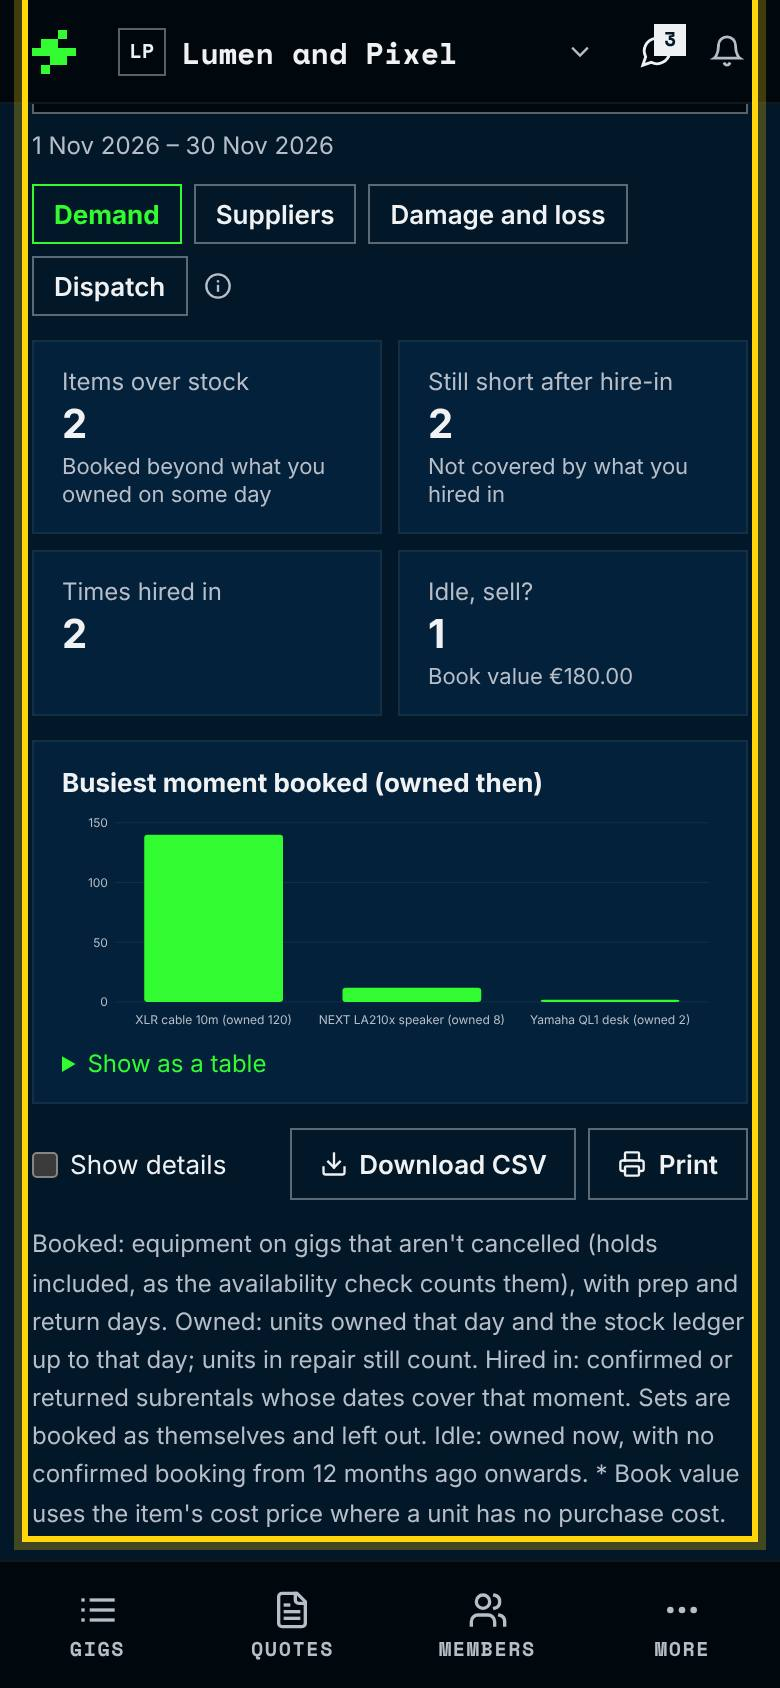
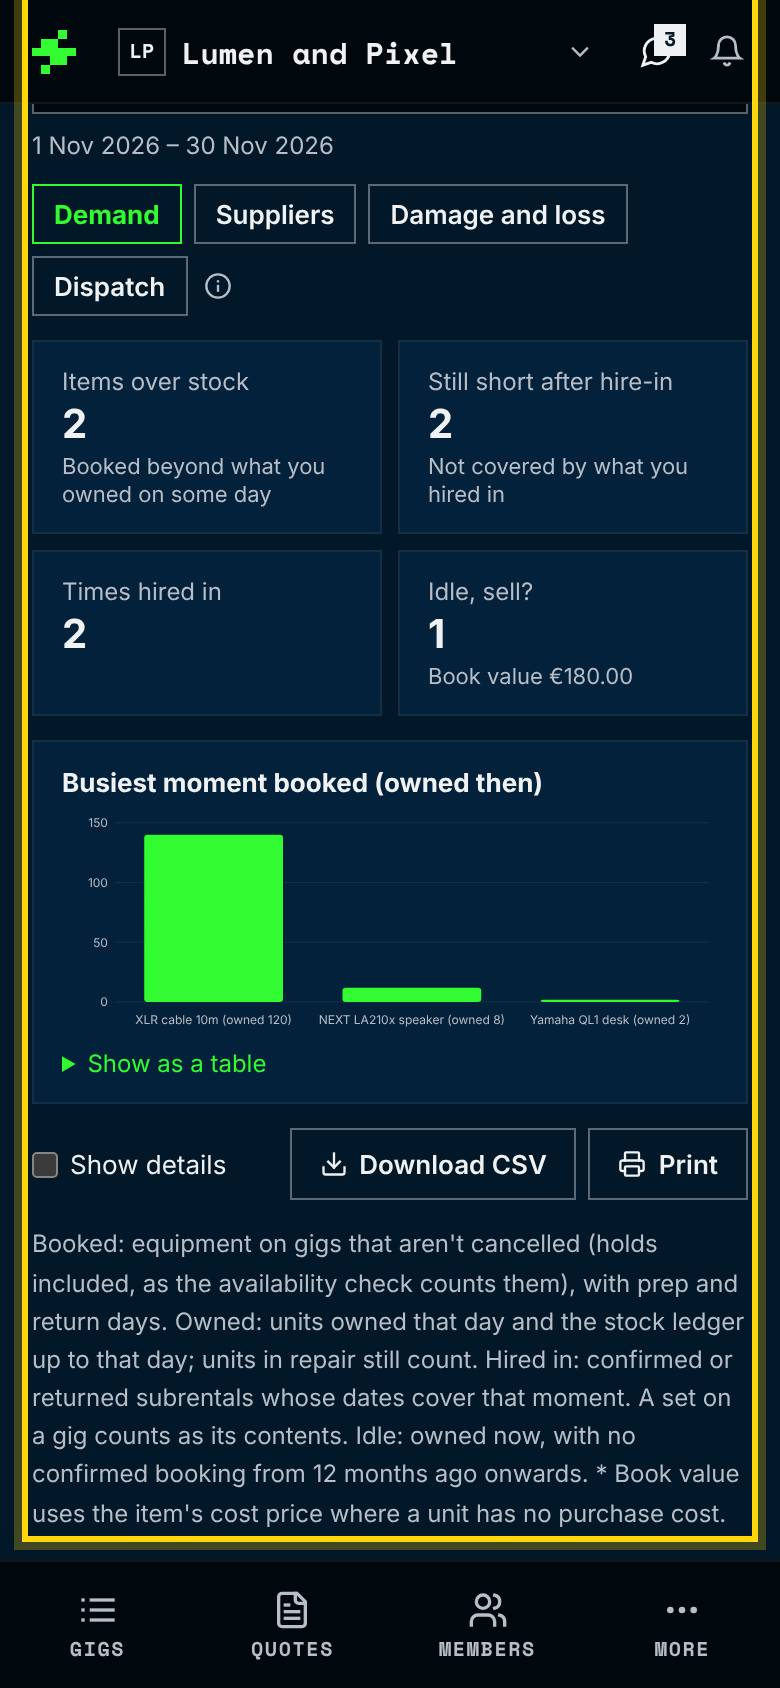
Warehouse numbers: How K6 works, notes for the release, e2e views (K6) (WIP)
Claude-Session: https://claude.ai/code/session_01TrujDLf8WfAYCA7UmgyYhG

Changed region(s): [[0.0308, 0.8009, 0.9231, 0.8626]]

diff --git a/src/i18n/pt.js b/src/i18n/pt.js
@@ -4502,7 +4502,7 @@ export default {
   "wh.col.bookValue": "Valor contabilístico",
   "wh.col.sell": "Vender?",
   "wh.sell": "Parado 12 meses",
-  "wh.howDemand": "Marcado: equipamento em eventos que não estão cancelados (pré-reservas incluídas, como na verificação de disponibilidade), com os dias de preparação e devolução. Tinha: unidades que tinha nesse dia e o registo de stock até esse dia; as unidades em reparação contam. Alugado: alugueres a terceiros confirmados ou devolvidos cujas datas cobrem esse momento. Os conjuntos são marcados como tal e ficam de fora. Parado: tem agora e não tem marcações confirmadas desde há 12 meses. * O valor contabilístico usa o preço de custo do artigo quando uma unidade não tem custo de compra.",
+  "wh.howDemand": "Marcado: equipamento em eventos que não estão cancelados (pré-reservas incluídas, como na verificação de disponibilidade), com os dias de preparação e devolução. Tinha: unidades que tinha nesse dia e o registo de stock até esse dia; as unidades em reparação contam. Alugado: alugueres a terceiros confirmados ou devolvidos cujas datas cobrem esse momento. Um conjunto num evento conta como o seu conteúdo. Parado: tem agora e não tem marcações confirmadas desde há 12 meses. * O valor contabilístico usa o preço de custo do artigo quando uma unidade não tem custo de compra.",
   "wh.csvName.demand": "armazem procura",
   "wh.csvName.suppliers": "armazem fornecedores",
   "wh.csvName.damage": "armazem danos",
@@ -4543,7 +4543,7 @@ export default {
   "wh.lossOnGigs.one": "{count} unidade perdida num evento",
   "wh.lossOnGigs.other": "{count} unidades perdidas em eventos",
   "wh.inspectionsOverdue": "Inspeções em atraso",
-  "wh.inspectionsSub": "{due} nos próximos 30 dias, {never} nunca inspecionados",
+  "wh.inspectionsSub": "{due} nos próximos 30 dias, nunca inspecionados: {never}",
   "wh.chart.repairs": "Reparações por artigo",
   "wh.damageBy.item": "Reparações por artigo",
   "wh.damageBy.gig": "Reparações e perdas por evento",

diff --git a/src/i18n/en.js b/src/i18n/en.js
@@ -4503,7 +4503,7 @@ export default {
   "wh.col.bookValue": "Book value",
   "wh.col.sell": "Sell?",
   "wh.sell": "Idle 12 months",
-  "wh.howDemand": "Booked: equipment on gigs that aren't cancelled (holds included, as the availability check counts them), with prep and return days. Owned: units owned that day and the stock ledger up to that day; units in repair still count. Hired in: confirmed or returned subrentals whose dates cover that moment. Sets are booked as themselves and left out. Idle: owned now, with no confirmed booking from 12 months ago onwards. * Book value uses the item's cost price where a unit has no purchase cost.",
+  "wh.howDemand": "Booked: equipment on gigs that aren't cancelled (holds included, as the availability check counts them), with prep and return days. Owned: units owned that day and the stock ledger up to that day; units in repair still count. Hired in: confirmed or returned subrentals whose dates cover that moment. A set on a gig counts as its contents. Idle: owned now, with no confirmed booking from 12 months ago onwards. * Book value uses the item's cost price where a unit has no purchase cost.",
   "wh.csvName.demand": "warehouse demand",
   "wh.csvName.suppliers": "warehouse suppliers",
   "wh.csvName.damage": "warehouse damage",
@@ -4544,7 +4544,7 @@ export default {
   "wh.lossOnGigs.one": "{count} unit lost on a gig",
   "wh.lossOnGigs.other": "{count} units lost on gigs",
   "wh.inspectionsOverdue": "Inspections overdue",
-  "wh.inspectionsSub": "{due} due in 30 days, {never} never inspected",
+  "wh.inspectionsSub": "{due} due in 30 days, never inspected: {never}",
   "wh.chart.repairs": "Repairs per item",
   "wh.damageBy.item": "Repairs per item",
   "wh.damageBy.gig": "Repairs and losses per gig",

diff --git a/e2e/auth/journey.spec.js b/e2e/auth/journey.spec.js
@@ -398,6 +398,18 @@ test('an admin reads the reports: overview tiles, revenue with details, and the 
   await expect(page).toHaveURL(/view=buy/)
   await reportLoaded(page)
   await expectAccessible(page)
+  // K6: Reports → Warehouse, its four views (demand, suppliers, damage and loss, dispatch)
+  await page.getByRole('button', { name: 'Warehouse', exact: true }).click()
+  await expect(page).toHaveURL(/tab=warehouse/)
+  await reportLoaded(page)
+  await expect(page.getByText(/^(Items over stock|No stock items yet)$/).first()).toBeVisible({ timeout: 15_000 })
+  await expectAccessible(page)
+  for (const [view, ready] of [['Suppliers', /^(Requests|No hire requests in this period)$/], ['Damage and loss', /^(Repairs|No damage, loss or inspections)$/], ['Dispatch', /^(Scanned out|No gear planned or scanned)$/]]) {
+    await page.getByRole('button', { name: view, exact: true }).click()
+    await reportLoaded(page)
+    await expect(page.getByText(ready).first()).toBeVisible({ timeout: 15_000 })
+    await expectAccessible(page)
+  }
   // K7: Reports → Operations, its four views (the PM is the organisation's admin: per-person rows too)
   await page.getByRole('button', { name: 'Operations', exact: true }).click()
   await expect(page).toHaveURL(/tab=operations/)

diff --git a/src/help/pt.js b/src/help/pt.js
@@ -333,7 +333,7 @@ export default {
         'A Visão geral e o seu Início mostram três mosaicos: artigos em falta nos próximos 30 dias, unidades em reparação e inspeções em atraso.',
       ],
       mistakes: [
-        'As unidades em reparação contam como suas; os conjuntos são marcados como tal e ficam fora da procura.',
+        'As unidades em reparação contam como suas; um conjunto num evento conta como o seu conteúdo.',
         'O material de eventos cancelados não conta, e as leituras anuladas ficam de fora.',
         'Os valores (valor contabilístico, gastos, custos de reparações e perdas) só aparecem a quem vê dinheiro; os lembretes das inspeções chegam nas notificações da manhã, não aqui.',
       ],

diff --git a/src/help/en.js b/src/help/en.js
@@ -336,7 +336,7 @@ export default {
         'The Overview and your Home show three tiles: items short in the next 30 days, units in repair and inspections overdue.',
       ],
       mistakes: [
-        'Units in repair still count as owned; sets are booked as themselves and are left out of demand.',
+        'Units in repair still count as owned; a set on a gig counts as its contents.',
         'Gear on cancelled gigs isn\'t counted, and undone scans are left out.',
         'Money (book value, spend, repair and loss costs) shows only for those who see money; reminders for inspections come in the morning notifications, not here.',
       ],

diff --git a/docs/ANALYTICS.md b/docs/ANALYTICS.md
@@ -408,20 +408,31 @@ D50 kept. Costs are in euros, as in K2; another currency shows its revenue only.
 through `private.equipment_hire_lines`, units' owned periods through `private.equipment_units`),
 never by adding up rows in the browser.
 
-## K6 · Warehouse and upkeep
+## How K6 works (built in the "Money reports" set)
 
-Needs: K5.
+Warehouse and upkeep. Migration `20261231000000_warehouse_numbers.sql` (two columns, a trigger and
+functions; only adds); checks in `supabase/tests/warehouse_numbers.sql` (no destructive statements).
+Decided with the owner on 2026-11-08: **"prepped" = scanned out**; the **idle period is 12 months**.
+Defaults D42, D44, D49, D50 kept. Cancelled gigs (K7) hold no equipment and are left out of demand
+and dispatch.
 
-- **Demand against stock**: the busiest moment booked against what was owned then (from the
-  ledger and unit history), days short, how often it was hired in; idle stock and "sell?"
-  candidates (no confirmed booking in 12 months, with book value).
-- **Suppliers**: hire-in spend per supplier, requests confirmed or declined, time to answer.
-- **Damage and loss**: repairs per item, gig and client; time from reported to repaired; cost and
-  what was charged back; losses per gig and client; inspections due, overdue and their cost.
-- **Dispatch**: per gig, scanned out against planned and back against out, still missing; scans per
-  day (warehouse workload); how many days before the gig gear left.
-- Tiles: items short in the next 30 days, units in repair, inspections overdue.
-- Ask: which dispatch steps count as "prepped"; the idle period.
+| Piece | How it works |
+|---|---|
+| Who may | `private.require_ops` (K7): the organisation's admins and members, second sign-in step when set up. Security definer, like K7's reports. Money (book value, spend, repair and loss costs) only where `private.can_see_finance`, else `null` and the screen hides those columns |
+| Request times | `subrentals.requested_at` (set when the status becomes `requested`) and `decided_at` (when a request goes from requested to confirmed or declined: the supplier's `answered_at`, else now). Written only by the trigger `subrentals_times` (after `subrentals_before`); nothing is backfilled: older requests use `created_at` and `answered_at` |
+| `private.warehouse_demand_rows(org, from, until)` | Per stock item (rental or sale, tracked, not a set: a set on a gig becomes its contents): **booked** = equipment reservations not cancelled (holds included, as the availability check; their periods include prep and return days); **owned on a day** = units owned that day (K5's `private.equipment_units`: purchase date, else added, until lost or retired) + the bulk ledger up to that day (`private.equipment_bulk_moves`); units in repair still count; **hired in** at a moment = confirmed or returned subrental lines covering it (not on a cancelled gig). Each day's busiest moment is found at the starts of the bookings running that day. Returns the peak (booked, when, owned then, hired then, short then), `days_over` (booked > owned), `days_short` (booked > owned + hired), `max_short`, `first_short` |
+| `warehouse_demand(org, from, until, at)` | jsonb `{ today, from, until, money, items }`: those rows for every stock item owned or booked, plus `owned` now, `hire_ins` / `hired_units` (subrentals with the item overlapping the period), `last_confirmed`, `idle` (owned now, no confirmed booking from 12 months ago onwards; future bookings count) and `book_value` (live units' cost less K5 depreciation so far, plus bulk purchases' cost less theirs for the share still owned; `book_value_estimated` when a unit uses the item's cost price). At most 400 days |
+| `warehouse_suppliers(org, from, until, at)` | Requests (not drafts) dated like hire-in (gig start, else their start): per supplier and in total, requests, confirmed (with returned), declined, waiting, cancelled, answered and the median time to answer (answer − sent); `spend` from K5's `private.equipment_hire_lines` (euros) |
+| `warehouse_damage(org, from, until, at)` | Repairs reported in the period: count, units, open, done, written off, median and average days to repair (done ones), cost (a confirmed linked expense in euros replaces it, as K5), charged back (cost of "charge client" repairs), invoiced; per item, per gig (with client) and per client. Losses: units lost in the period on the gig they last went out to with no later return (undone scans left out), bulk lost − found; value = replacement value, else cost, less any payout. Inspections from `private.maintenance_due_all` (never inspected = due today): overdue (before today), due now, due in 30 days, never; done, failed and cost in the period; per item |
+| `warehouse_dispatch(org, from, until, at)` | Gigs starting in the period (not cancelled) with gear planned or scanned: planned, out, back, `short_out` (planned − out per item), `missing` (out − back per item; totals count ended gigs), first out scan and `lead_days` (start date − its day; negative = after the start), lead buckets; scans per day (not undone, not on cancelled gigs) and the busiest day |
+| `report_overview_k6(org, at)` | K6's own tile function: `items_short_30` (items with a day still short from today to 29 days ahead), `units_in_repair` (`stock_totals.in_repair`), `inspections_overdue`, `never_inspected`. `OVERVIEW_TILES`: `itemsShort30` (opens Demand for the next 30 days), `unitsInRepair` (Inventory → Maintenance), `inspectionsOverdue` (Damage and loss). The morning reminders still notify due inspections; K6 sends nothing |
+| Screen | `components/reports/WarehouseReport.jsx`, tab `warehouse` of `REPORT_TABS` (menu Reports → Warehouse). Views `?view=demand|suppliers|damage|dispatch`, this month by default; "Show details" adds the tables: Demand's filter `?show=short|idle|all`, Damage's grouping `?by=item|gig|client`, losses and inspections due, Dispatch per gig and the lead-time chart. CSV and print. Helpers `src/lib/analytics/warehouse.js` (unit tested) |
+| Connected | Inventory → Maintenance: "Repair and inspection numbers"; Inventory → Subrentals: "Supplier numbers"; dispatch page: "Dispatch numbers" (admins and members); Overview and Home: the three tiles; Demand's hire-in count opens Reports → Equipment → Buy or hire in for the item |
+| Help | Terms demand against stock, idle stock; ⓘ `warehouse-report`; guide `warehouse-numbers` with four pictures (`wh-demand`, `wh-suppliers`, `wh-damage`, `wh-dispatch`) and the refreshed Overview picture |
+| Tests | `warehouse_numbers.sql`: past stock from the ledger (10 mics, 4 lost mid-month), a subrental covering part of a booking (days over 4, still short 3), a cancelled gig's booking and scan left out, idle items with book value (units and bulk), supplier answers (24 h and 6 h → median 15) and spend, repairs per gig and client, a unit lost after its return scan was undone, inspections overdue and never done, dispatch per gig with an undone scan left out, the tiles, who may call each function (admin, member; viewer, another organisation, anonymous refused), a too-long period, the request-time trigger. Vitest for the helpers and tiles; the signed-in e2e journey opens the four views with axe |
+
+**For later steps:** demand against stock is `private.warehouse_demand_rows`; read hire-in cost
+through K5's `private.equipment_hire_lines`.
 
 ## How K7 works (built with the "Money reports" set)
 

diff --git a/docs/notes/K6.md b/docs/notes/K6.md
@@ -1,0 +1,54 @@
+# K6: Warehouse and upkeep
+
+## Changelog
+### Added
+- **Reports → Warehouse** (admins and members): four views for any period, days still to come
+  included. *Demand*: for each item, the busiest moment booked against what you owned that day
+  (from the stock history) and what you hired in for it, the days over stock, the days still short
+  after hiring in and how often it was hired in; idle gear (no confirmed booking in 12 months) with
+  its book value, as candidates to sell. *Suppliers*: hire-in spend per supplier, requests confirmed
+  or declined and how long suppliers take to answer. *Damage and loss*: repairs per item, gig and
+  client, how long they took, their cost and what was charged back; losses per gig and client;
+  inspections overdue, due in 30 days, never done, and their cost. *Dispatch*: per gig, scanned out
+  against planned, back against out and still missing; how many days before the gig gear left;
+  scans per day (the warehouse's workload). CSV and print. Money shows only for those who see it.
+- Three Overview tiles: items short in the next 30 days, units in repair, inspections overdue
+  (with how many were never inspected).
+- Hire requests now remember when they were sent and when they were answered, so the time to answer
+  can be counted.
+- Help: terms demand against stock, idle stock; ⓘ on the Warehouse report; guide "See how the
+  warehouse is doing" with four new pictures and the refreshed Overview and Home pictures.
+
+### Connected
+- Inventory → Maintenance: "Repair and inspection numbers" (admins and members).
+- Inventory → Subrentals: "Supplier numbers" next to the suppliers.
+- Dispatch page: "Dispatch numbers" for the organisation's admins and members.
+- Overview and Home: the three tiles. The morning reminders keep notifying inspections that are due;
+  nothing new is sent.
+- Menu: Reports → Warehouse.
+
+## Roadmap
+| K6: Warehouse and upkeep (Reports → Warehouse: demand against stock and idle gear, suppliers, damage and loss with inspections, dispatch; three tiles) | <version> | [docs/ANALYTICS.md](docs/ANALYTICS.md) |
+
+## Pending: test lines (section 2)
+- K6: Reports → Warehouse → Demand for this month: an item booked on two gigs at once beyond what you
+  own shows "days over stock"; add a confirmed subrental for part of those days and only the other
+  days stay "still short". Tap "Show details" → "Idle (sell?)": gear with no confirmed booking in 12
+  months, with its book value.
+- K6: Suppliers: send a hire request, then mark it confirmed: it counts as confirmed with a time to
+  answer. Damage and loss: a repair from a gig shows under that gig and its client; a unit marked lost
+  after going out shows as lost on that gig. Dispatch: scan some gear out for a gig and undo one scan:
+  the undone scan doesn't count.
+- K6: as a member, the Warehouse views show the same counts and money; as a viewer, Reports isn't
+  offered. Check the three tiles on the Overview and on Home.
+
+## Pending: new questions (section 3)
+- K6: units in repair still count as owned in Demand (they are yours, just not available). Count
+  them as not owned while in repair instead? Assumed: owned.
+- K6: holds (gigs not yet confirmed) count as booked in Demand and the "items short" tile, as the
+  availability check does. Count confirmed bookings only? Assumed: holds count.
+- K6: "inspections overdue" counts what was due before today; never-inspected gear is shown apart
+  ("+ 3 never inspected"). Count never-inspected gear as overdue? Assumed: apart.
+
+## Session prompt
+K6
